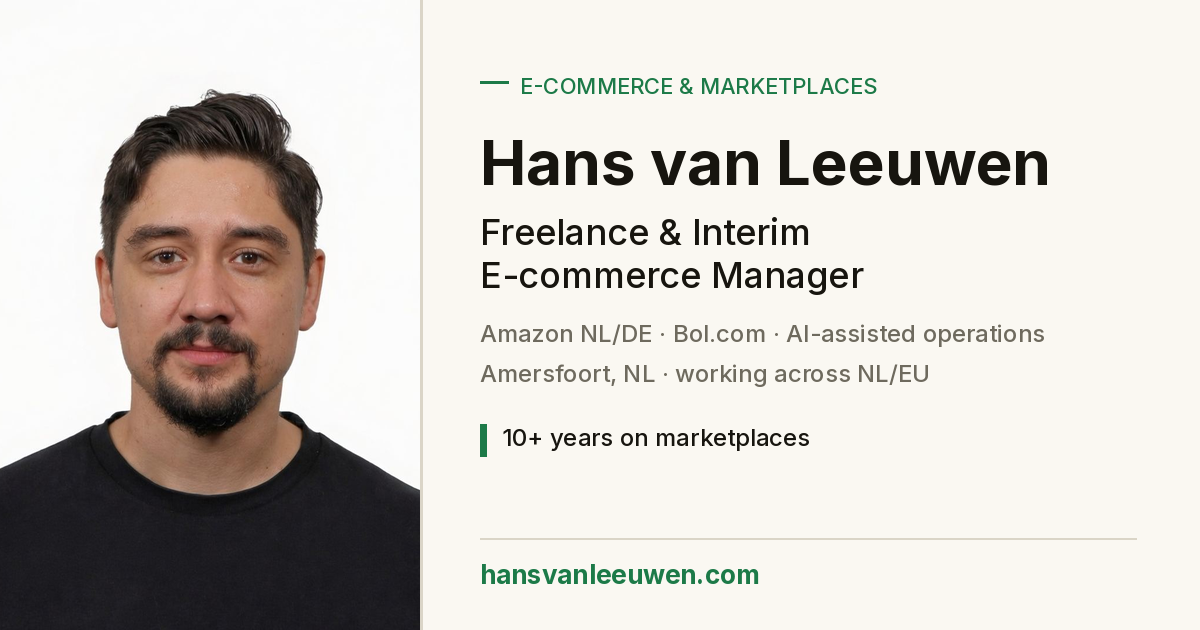
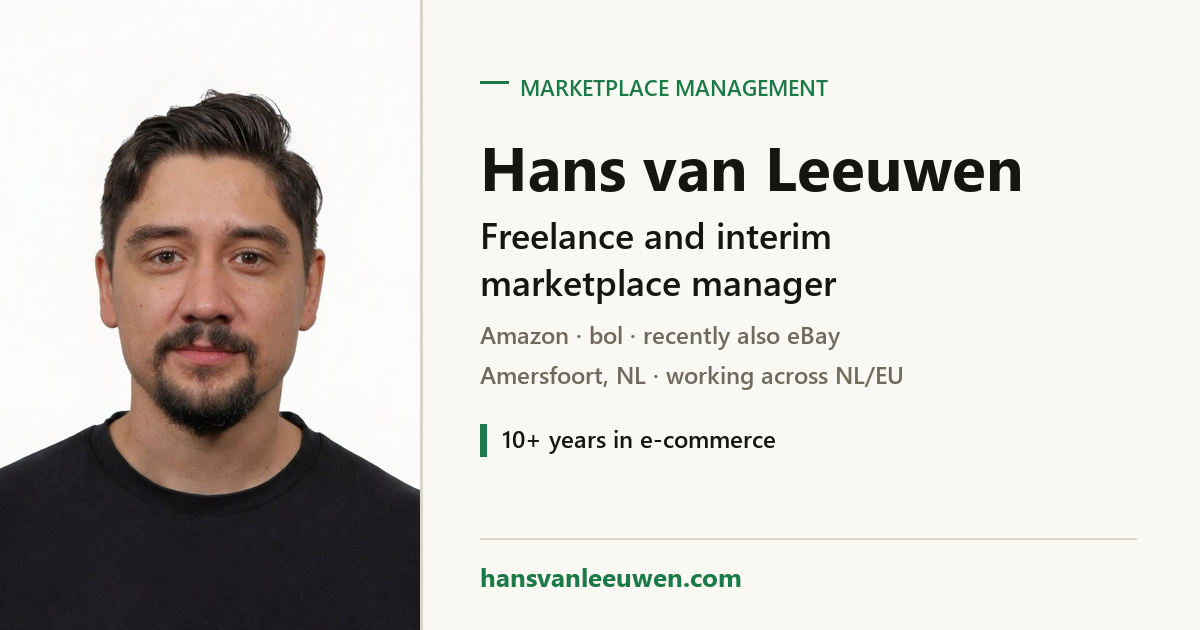
feat(og): regenerate og-image with marketplace-manager positioning (Amazon, bol, recently also eBay)
Generator falls back to local Segoe UI when Inter is not installed (no font download). Text: 'Freelance and interim marketplace manager', '10+ years in e-commerce' (supported by the CV since 2016). 227 KB, check-og-image OK.

diff --git a/apps/personal/scripts/make-og-image.py b/apps/personal/scripts/make-og-image.py
@@ -24,8 +24,8 @@ GREEN = (28, 122, 72)       # #1C7A48 editorial green (site --primary)
 LINE = (218, 213, 199)      # #DAD5C7
 
 NAME = "Hans van Leeuwen"
-TITLE = "Freelance & Interim\nE-commerce Manager"
-SUB = "Amazon NL/DE · Bol.com · AI-assisted operations"
+TITLE = "Freelance and interim\nmarketplace manager"  # positionering 2026-09-24
+SUB = "Amazon · bol · recently also eBay"
 DOMAIN = "hansvanleeuwen.com"
 LOC = "Amersfoort, NL · working across NL/EU"
 
@@ -44,8 +44,10 @@ def main():
     ap = argparse.ArgumentParser()
     ap.add_argument("--font-dir", default=os.environ.get("OG_FONT_DIR", "/tmp/fonts"))
     a = ap.parse_args()
-    bold = [os.path.join(a.font_dir, "inter-2.ttf"), os.path.join(a.font_dir, "Inter-Bold.ttf")]
-    medium = [os.path.join(a.font_dir, "inter-1.ttf"), os.path.join(a.font_dir, "Inter-Medium.ttf")]
+    # Windows-fallback (Segoe UI) wanneer Inter niet lokaal staat; geen download nodig.
+    win = os.path.join(os.environ.get("WINDIR", "C:/Windows"), "Fonts")
+    bold = [os.path.join(a.font_dir, "inter-2.ttf"), os.path.join(a.font_dir, "Inter-Bold.ttf"), os.path.join(win, "segoeuib.ttf")]
+    medium = [os.path.join(a.font_dir, "inter-1.ttf"), os.path.join(a.font_dir, "Inter-Medium.ttf"), os.path.join(win, "seguisb.ttf"), os.path.join(win, "segoeui.ttf")]
 
     img = Image.new("RGB", (W, H), BG)
     d = ImageDraw.Draw(img)
@@ -73,7 +75,7 @@ def main():
     f_domain = font(bold, 26)
 
     d.rectangle([x, y + 9, x + 28, y + 11], fill=GREEN)
-    d.text((x + 40, y), "E-COMMERCE & MARKETPLACES", font=f_eyebrow, fill=GREEN)
+    d.text((x + 40, y), "MARKETPLACE MANAGEMENT", font=f_eyebrow, fill=GREEN)
     y += 52
     d.text((x, y), NAME, font=f_name, fill=INK)
     y += 86
@@ -86,7 +88,7 @@ def main():
     # Proof line
     y += 66
     d.rectangle([x, y, x + 6, y + 32], fill=GREEN)  # één regel: geen klantcijfers (anonimisering 2026-09-23)
-    d.multiline_text((x + 22, y - 2), "10+ years on marketplaces", font=f_sub, fill=INK, spacing=10)
+    d.multiline_text((x + 22, y - 2), "10+ years in e-commerce", font=f_sub, fill=INK, spacing=10)
 
     # Footer domain
     d.rectangle([x, H - 92, W - 64, H - 91], fill=LINE)
